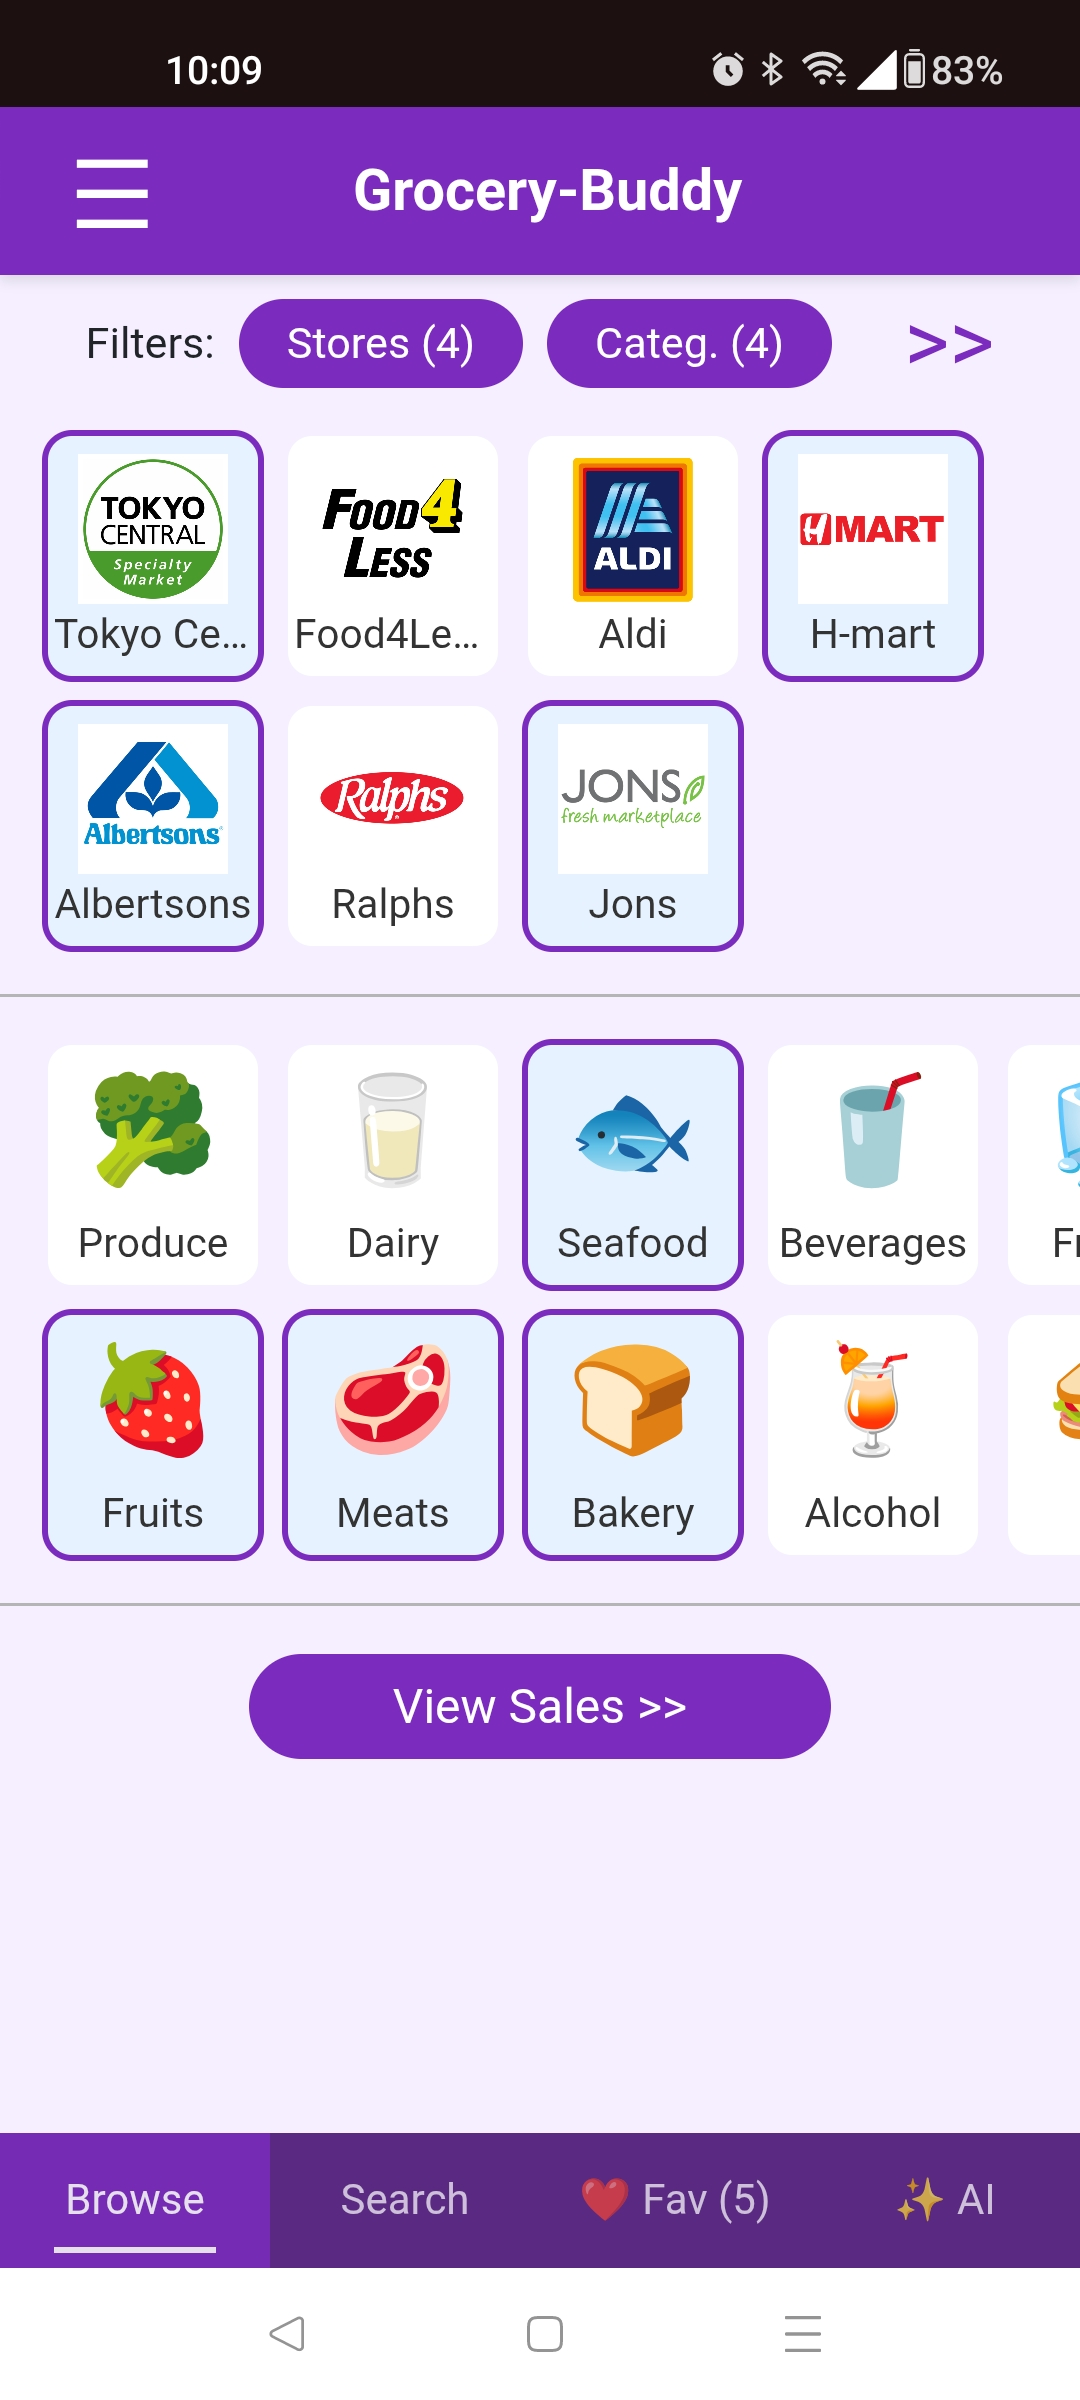
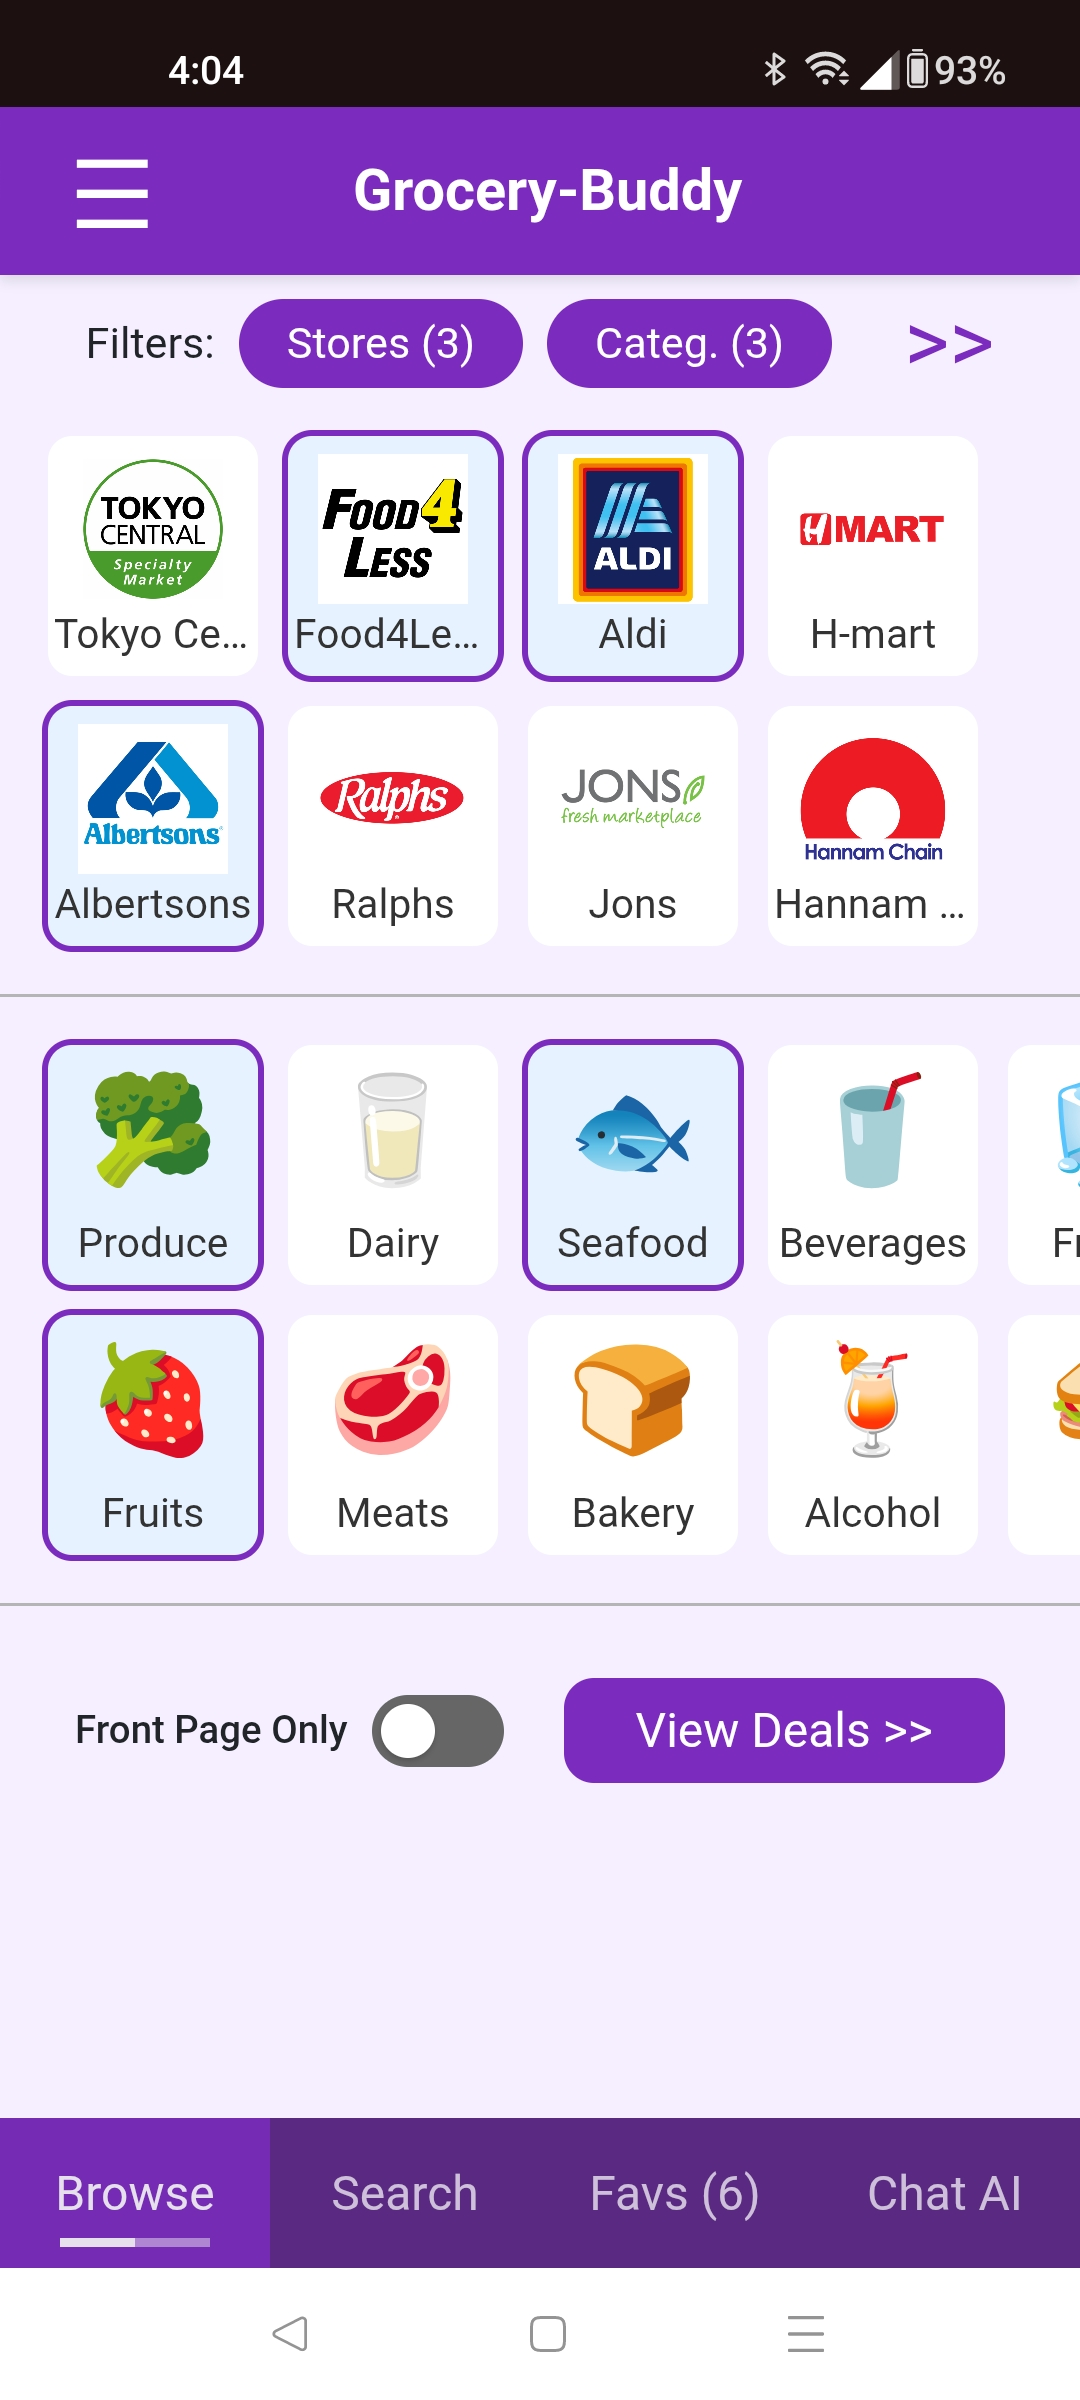
updated README, media files

diff --git a/README.md b/README.md
@@ -12,27 +12,32 @@ Grocery-Buddy is a full-stack web application designed to help users discover th
 
   - **Browse Deals:** View a comprehensive list of current grocery promotions.
     - Filter by retailers/categories; sort by price, etc.
-  - **Favorites:** Save your favorite deals for quick access.
   - **Search:** Search for specific products across all retailers.
-  - **Dynamic/Themeable UI:** Responsive and themeable user interface built with React.
+  - **Favorites:** Save your favorite deals for quick access.
+  - **CHAT with AI:** Vector embeddings enable semantic similarity search
 
 - **--Backend--**
 
-  - **PDF Processing:** Extracts deal information from uploaded PDF flyers.
-    - The backend receives uploaded PDF grocery flyers.
-    - An LLM (Large Language Model) extracts the PDF content into a structured JSON format.
-    - JSON extraction undergoes an enhancement process to improve data quality and consistency.
-    - The enhanced deal information is uploaded to a Supabase (PostgreSQL) database as a microservice.
+  - **PDF Processing:** Extraction of deal information from uploaded PDF flyers.
+    - Google Gemini AI extracts PDF content into structured JSON format
+    - JSON extraction undergoes enhancement processing for improved data quality, then stored in Supabase (PostgreSQL) database
+  - **AI-Powered Search:** Vector embeddings enable semantic similarity search
+    - Batch embedding generation for all products
+    - Intelligent product matching and recommendations
+  - **RESTful API:** Comprehensive endpoints for data retrieval and management
+    - Product search and filtering endpoints
+    - Retailer management
+    - Background task processing for CPU-intensive operations
 
-- **--AI Features-- (Coming soon)**
+- **--AI Features--**
 
-  - **Chat With AI:** Ask the app to curate a shopping list, optionally with a budget.
+  - **Chat With AI:** Ask it to curate a shopping list.
     - EG. "Put together a high-protein shopping list for $75."
     - Or, "Assemble a balanced meal plan with emphasis on produce for a family of 3 for $150."
 
 ## Tech Stack 🛠
 
-This project leverages a modern tech stack:
+This project leverages a modern, AI-enhanced tech stack:
 
 - **Frontend:**
   - **React:**
@@ -49,19 +54,47 @@ This project leverages a modern tech stack:
 - **Version Control:**
   - **Git & GitHub:**
 
+## Project Structure 📁
+
+```
+grocery-budget-assistant/
+├── backend/                 # FastAPI backend application
+│   ├── app/                # Core application logic
+│   │   ├── routers/        # API route definitions
+│   │   ├── services/       # Business logic services
+│   │   ├── schemas/        # Pydantic data models
+│   │   └── utils/          # Utility functions
+│   └── pdf/                # PDF processing directories
+├── frontend/               # React frontend application
+│   ├── src/
+│   │   ├── components/     # Reusable UI components
+│   │   ├── views/          # Page-level components
+│   │   ├── hooks/          # Custom React hooks
+│   │   └── styles/         # CSS files and themes
+└── docs/                   # Project documentation
+```
+
+**Backend Structure:**
+<img src="./docs/media/backend_structure.PNG" width="400">
+
 ## Screenshots 📸
 
 <!-- **Main Deal Browse Interface:** -->
-<img src="./docs/media/1.jpg" width="400">
+<img src="./docs/media/1.jpg" width="200">
 
 <!-- **Favorites Management View:** -->
-<img src="./docs/media/2.jpg" width="400">
+<img src="./docs/media/2.jpg" width="200">
 
 <!-- **Filtering Options (Example):** -->
-<img src="./docs/media/3.jpg" width="400">
+<img src="./docs/media/3.jpg" width="200">
 
 <!-- **Dark Mode Theme:** -->
-<img src="./docs/media/4.jpg" width="400">
+<img src="./docs/media/4.jpg" width="200">
 
 <!-- **Mobile/Responsive View (Example):** -->
-<img src="./docs/media/5.jpg" width="400">
+<img src="./docs/media/5.jpg" width="200">
+
+## Documentation 📚
+
+- **[ProjectDoc.md](./docs/ProjectDoc.md)** - Comprehensive technical documentation
+- **[ProjectFiles.md](./docs/ProjectFiles.md)** - Detailed file structure and descriptions
